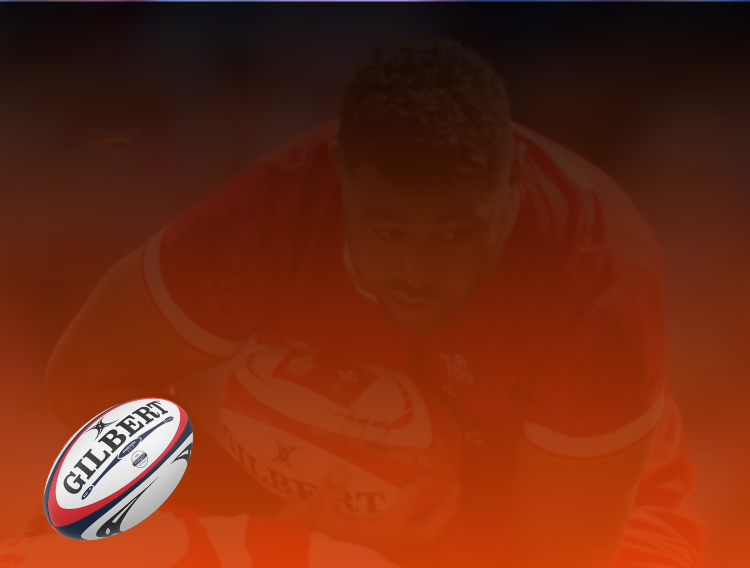
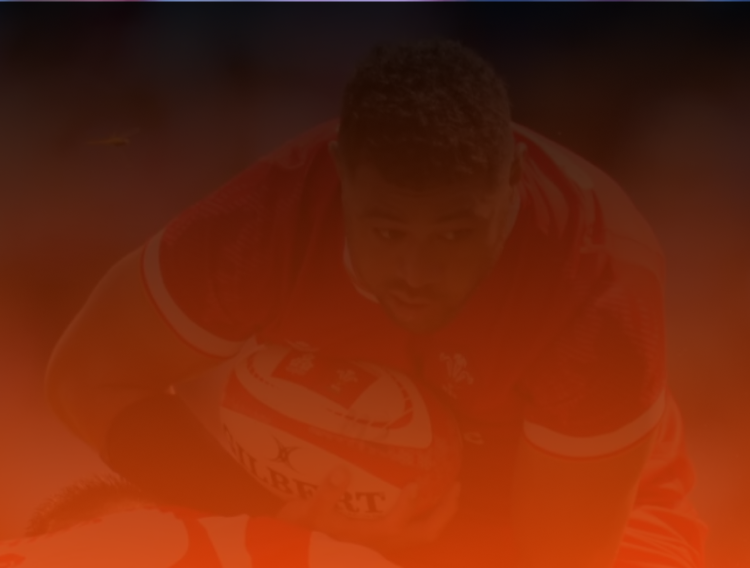
adds rugby ball floating

Changed region(s): [[0.0307, 0.6884, 0.276, 0.9577]]

diff --git a/src/components/dashboard/hero/DashboardHeroSections.tsx b/src/components/dashboard/hero/DashboardHeroSections.tsx
@@ -15,6 +15,7 @@ import { useFantasySeasons } from "../../../hooks/dashboard/useFantasySeasons";
 import { smartRoundUp } from "../../../utils/intUtils";
 import RoundedCard from "../../ui/cards/RoundedCard";
 import { trimSeasonYear } from "../../../utils/stringUtils";
+import { twMerge } from "tailwind-merge";
 
 
 export function DashboardHeroLoadingSkeleton() {
@@ -30,11 +31,12 @@ export function DashboardHeroLoadingSkeleton() {
 type DashboardFrameProps = {
   children?: ReactNode,
   imageUrl?: string,
-  hideBeastImage?: boolean
+  cornerImageUrl?: string,
+  cornerImageClassName?: string
 }
 
 /** Renders the dashboard frame */
-export function DashboardHeroFrame({ children, imageUrl, hideBeastImage = false }: DashboardFrameProps) {
+export function DashboardHeroFrame({ children, imageUrl, cornerImageUrl = '/images/dashboard/beast_screeming.png', cornerImageClassName}: DashboardFrameProps) {
 
   const finalImageUrl = imageUrl || '/images/dashboard/hero-background.jpg';
 
@@ -63,10 +65,13 @@ export function DashboardHeroFrame({ children, imageUrl, hideBeastImage = false 
         {children}
       </div>
 
-      {!hideBeastImage && <div className='z-[20] max-h-32 overflow-clip sm:max-h-32  absolute bottom-0 left-0 px-0.5' >
+      {<div className='z-[20] max-h-32 overflow-clip sm:max-h-32  absolute bottom-0 left-0 px-0.5' >
         <img
-          src='/images/dashboard/beast_screeming.png'
-          className='h-32 sm:h-32 object-contain'
+          src={cornerImageUrl}
+          className={twMerge(
+            'h-32 sm:h-32 object-contain',
+            cornerImageClassName
+          )}
         />
       </div>}
 

diff --git a/src/components/dashboard/hero/SixNationsHero.tsx b/src/components/dashboard/hero/SixNationsHero.tsx
@@ -43,7 +43,8 @@ function Content() {
     return (
         <DashboardHeroFrame
             imageUrl={'/images/dashboard/6nations_banner_bg.png'}
-            hideBeastImage
+            cornerImageUrl='/public/images/dashboard/rugby_ball.png'
+            cornerImageClassName='w-fit h-28'
         >
             <DashboardHeroHeader title='PLAY SIX NATIONS FANTASY' />
             <DashboardHeroScoreSection
